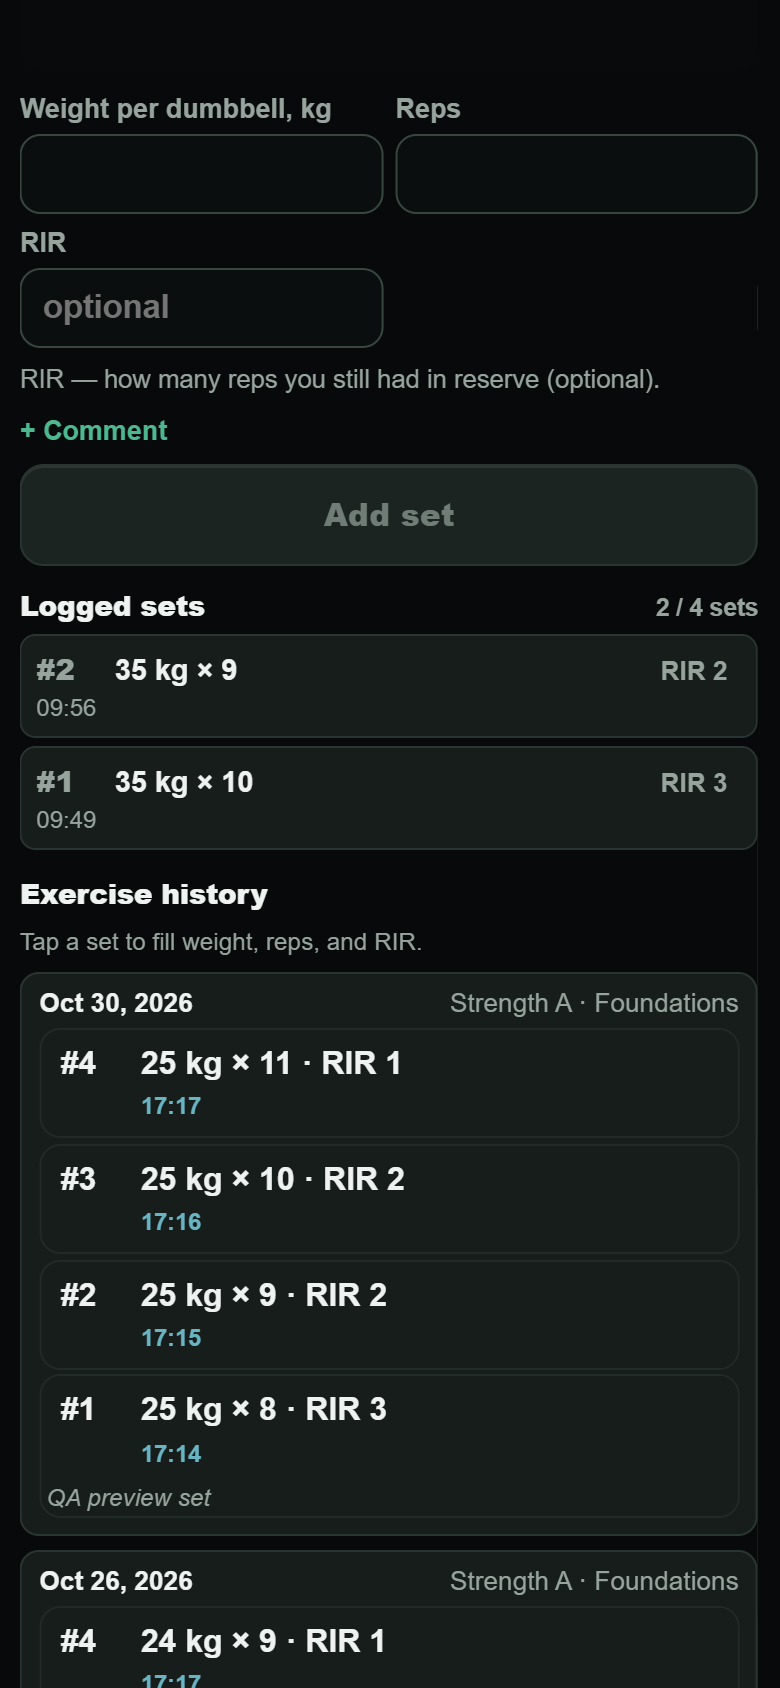
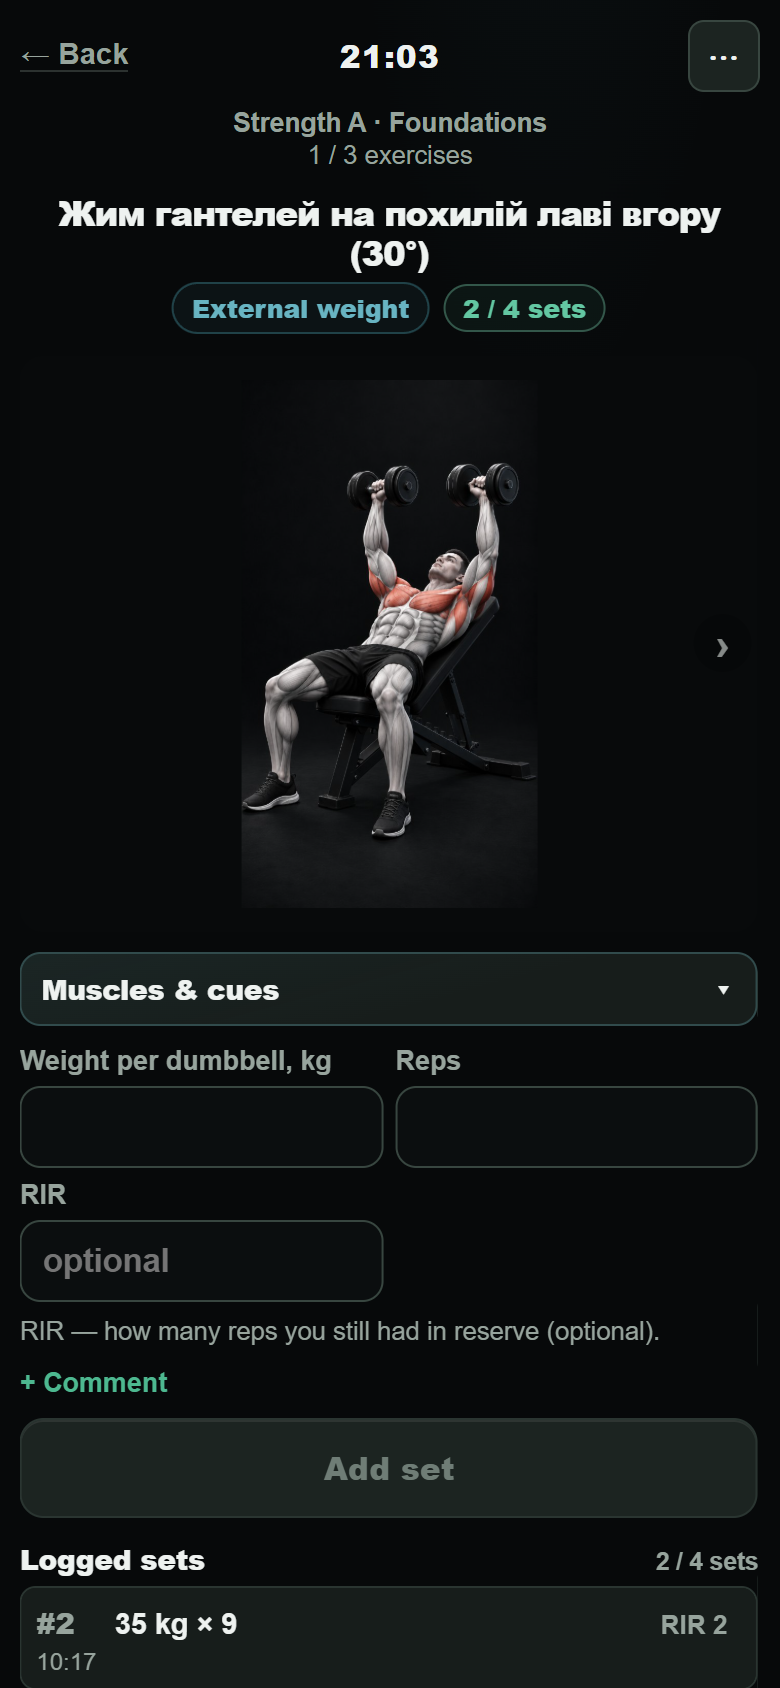
docs: highlight strength exercise on mobile

diff --git a/README.md b/README.md
@@ -8,7 +8,7 @@ The project emphasizes source provenance and data quality: missing measurements 
 
 ## Screenshots
 
-All screenshots use the English UI and synthetic data created in an isolated local PostgreSQL database. They do not show a user's production records. Desktop captures use a 1600px-wide viewport; phone captures use a 390px-wide mobile viewport. The Body Map preview displays the 3D anatomy view; training exposure is not connected in this fixture.
+All screenshots use the English UI and synthetic data created in an isolated local PostgreSQL database. They do not show a user's production records. Exercise names retain their stored language. Desktop captures use a 1600px-wide viewport; phone captures use a 390px-wide mobile viewport. The Body Map preview displays the 3D anatomy view; training exposure is not connected in this fixture.
 
 ### Desktop
 
@@ -24,7 +24,7 @@ All screenshots use the English UI and synthetic data created in an isolated loc
 
 | Training diary | Active strength session |
 | --- | --- |
-| ![BodyCast training diary adapted to a phone screen](docs/images/bodycast-training.png) | ![Phone view of an active strength session with set logging controls](docs/images/bodycast-strength-session.png) |
+| ![BodyCast training diary adapted to a phone screen](docs/images/bodycast-training.png) | ![Phone view of an active strength exercise with its illustration and set logging controls](docs/images/bodycast-strength-session.png) |
 
 | Model diagnostics | Stepper energy diagnostics |
 | --- | --- |
